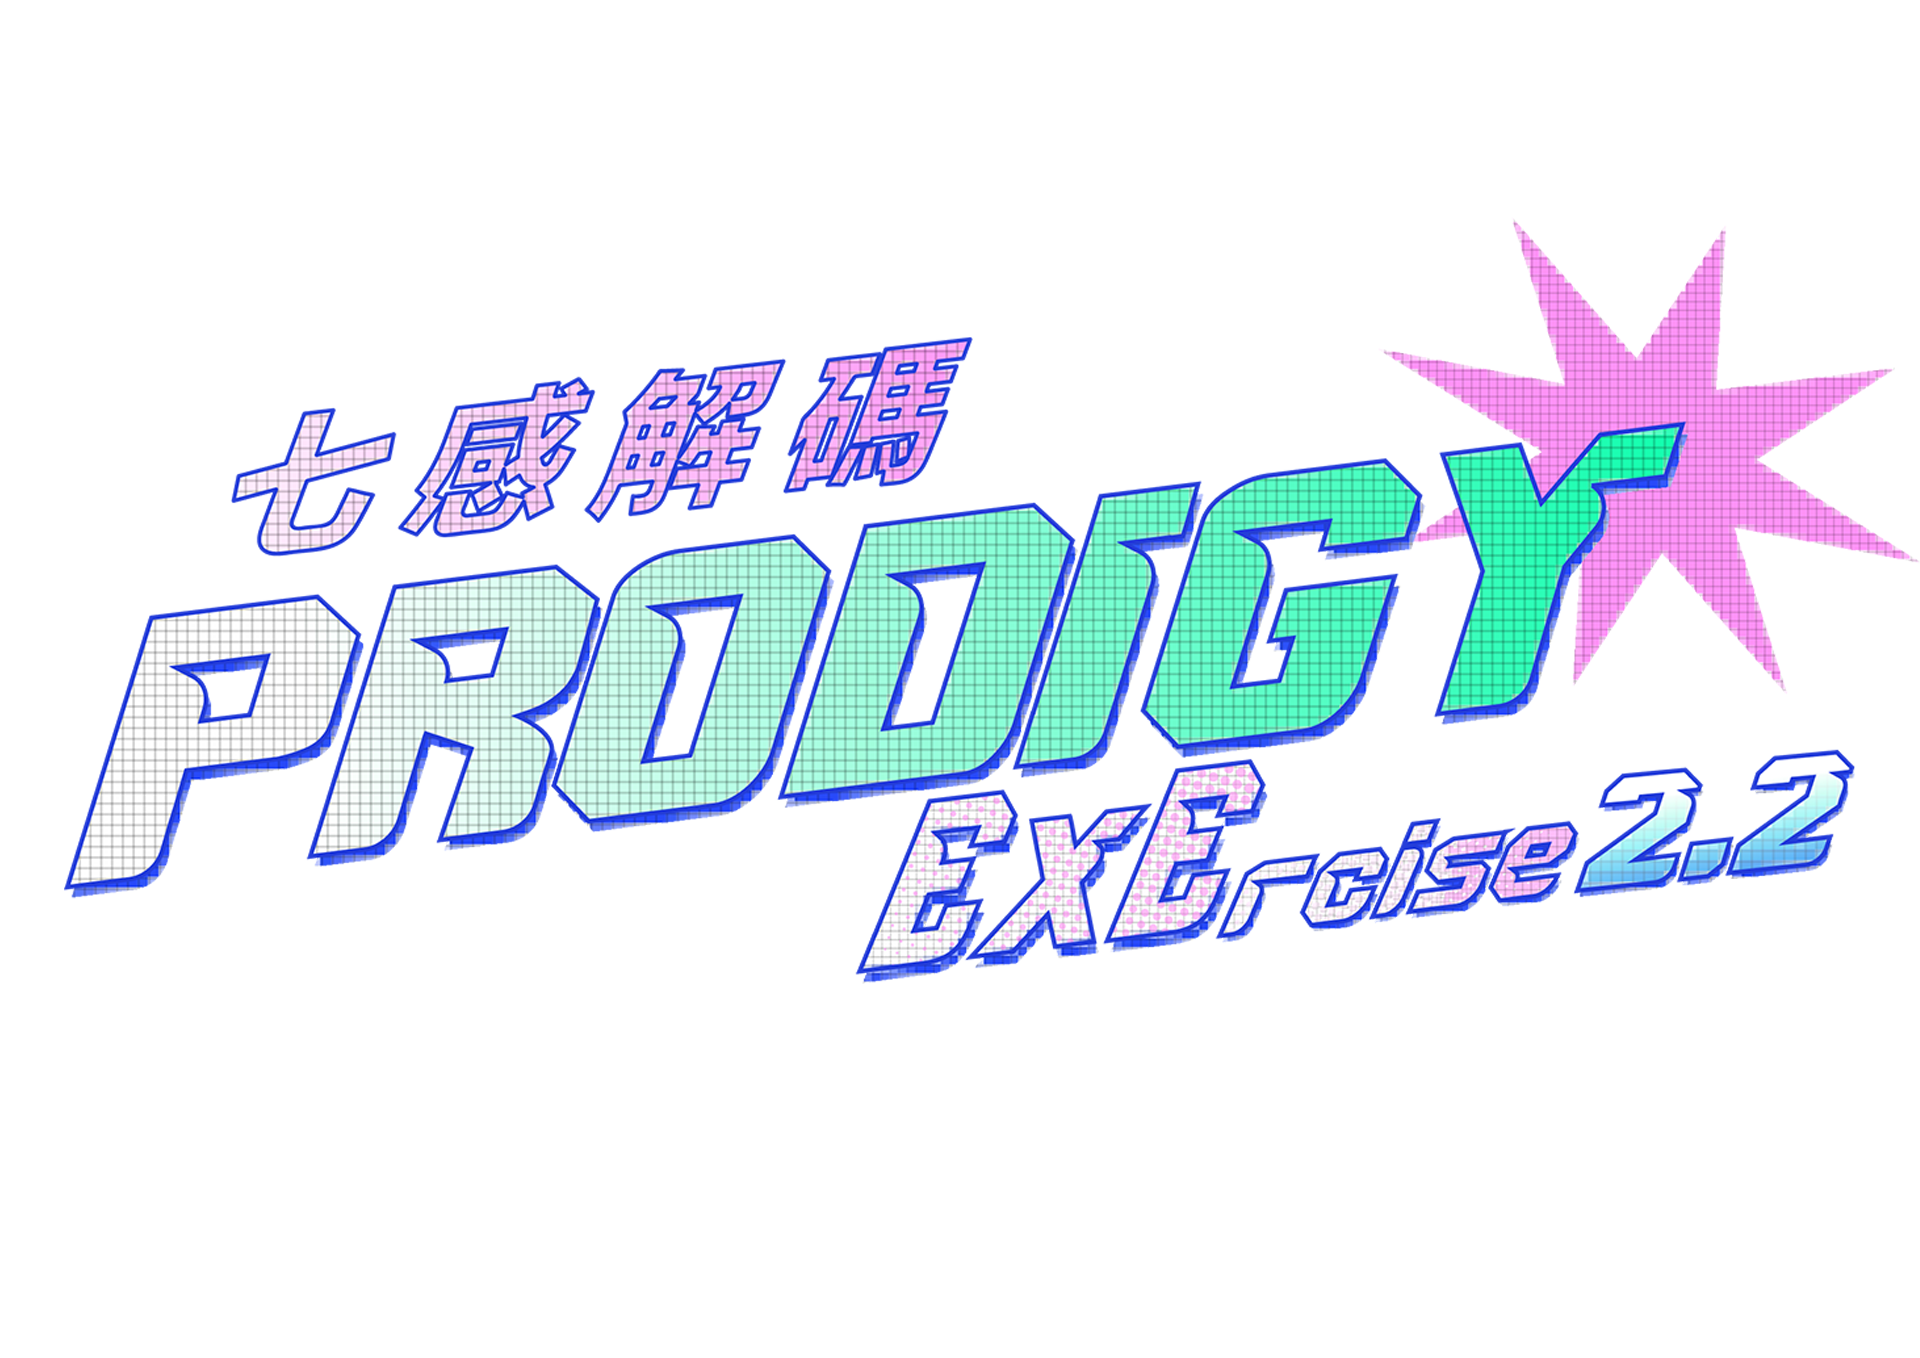
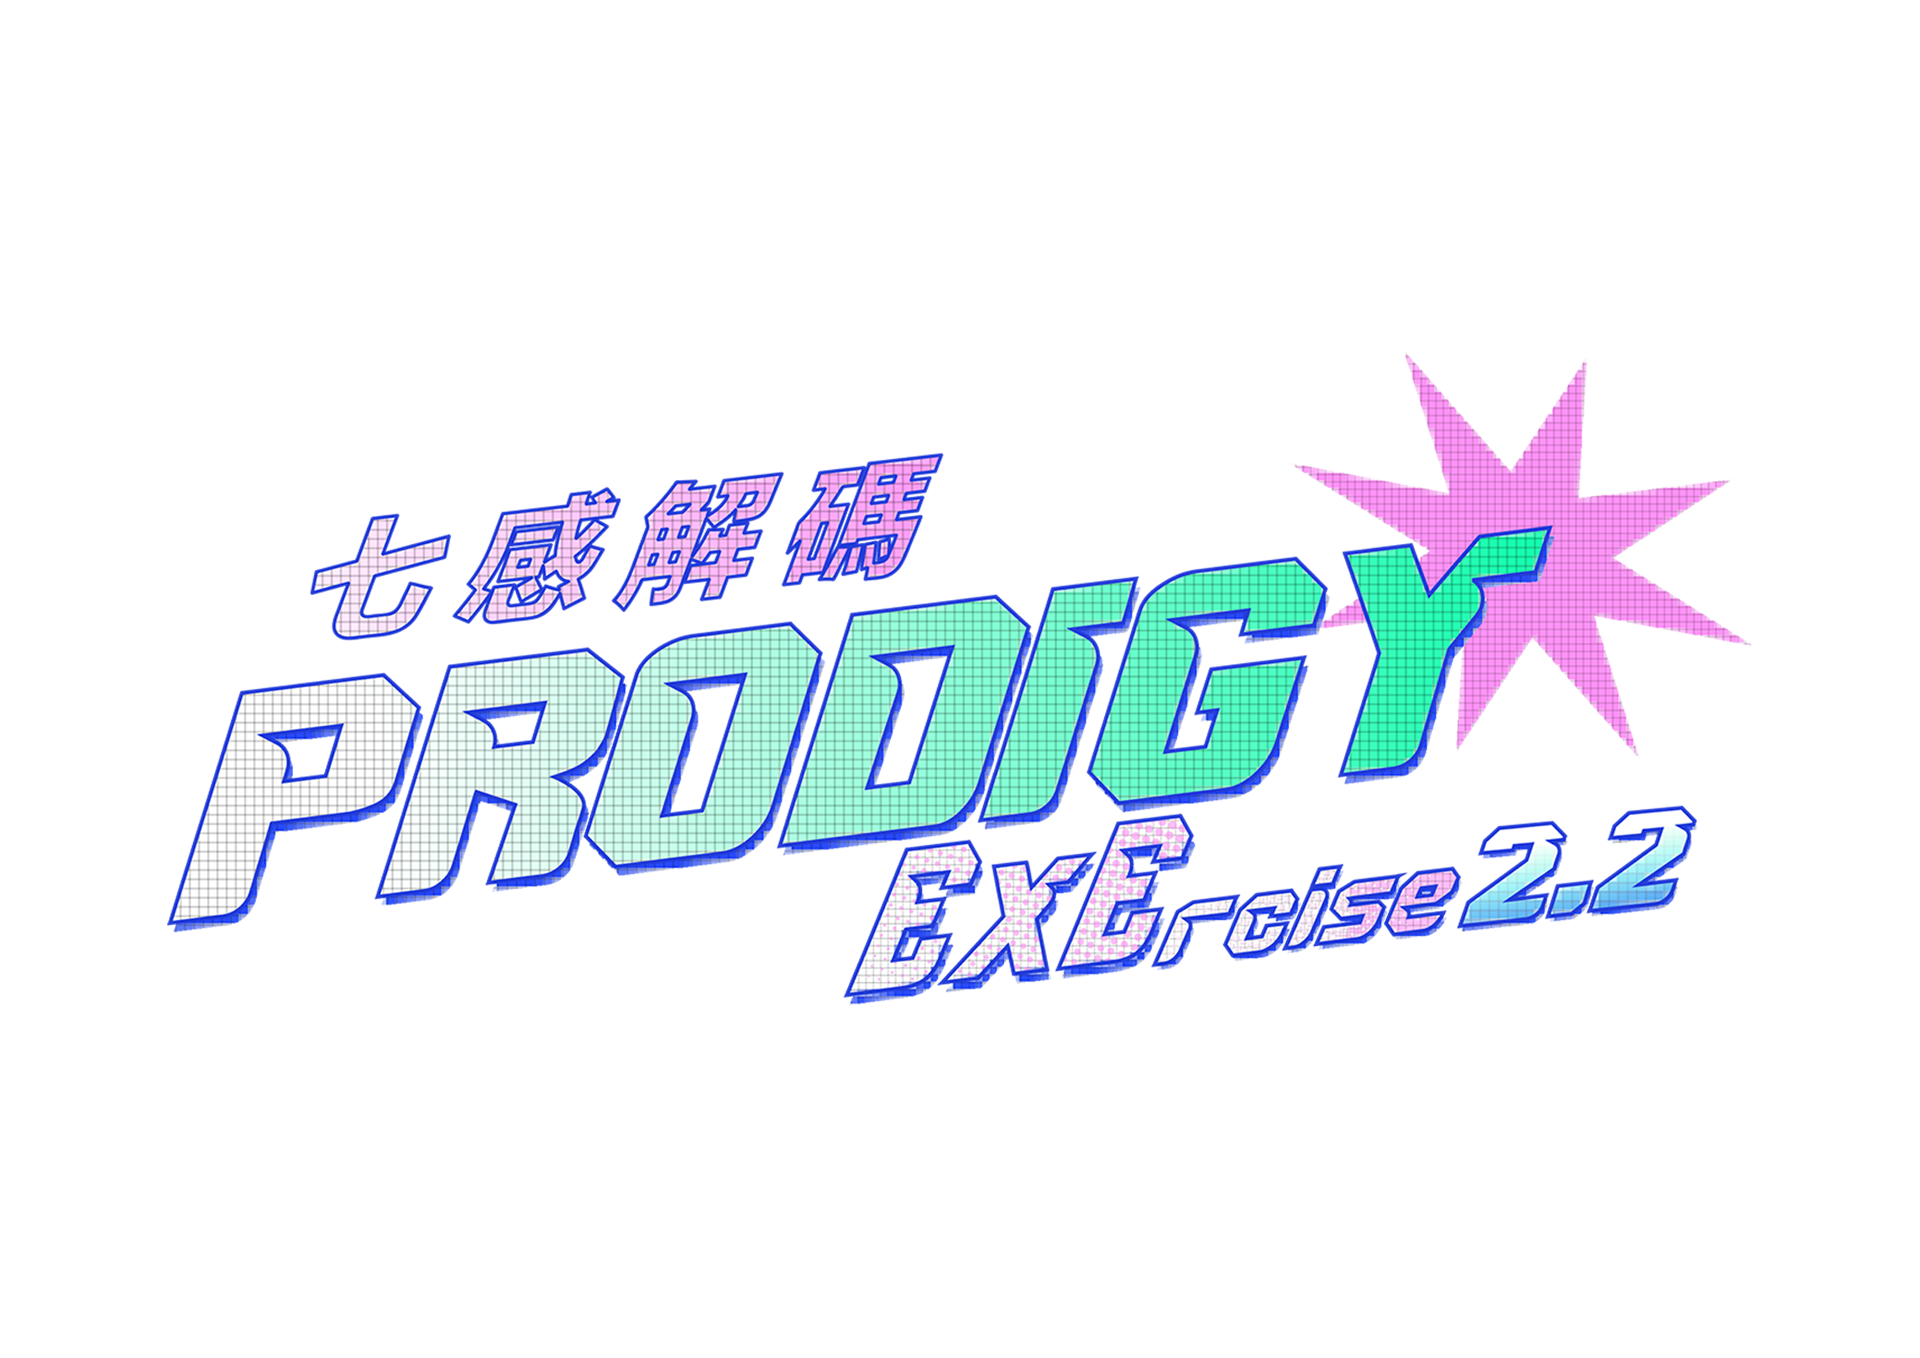
2.2新增號碼牌部分

Changed region(s): [[0.0312, 0.1546, 1.0, 0.7423]]

diff --git a/exe/exetest/main.js b/exe/exetest/main.js
@@ -806,6 +806,16 @@ const translations = {
         'act_reg_4': '第四梯次報到', 'act_warm_4': '第四梯次熱身', 'act_play_4': '第四梯次體驗遊玩',
         'act_reg_5': '第五梯次報到', 'act_warm_5': '第五梯次熱身', 'act_play_5': '第五梯次體驗遊玩',
 
+        // 號碼牌與報到機制
+        'tab_ticket': '號碼牌規則',
+        'ticket_h1': '號碼牌與報到機制',
+        'ticket_sub_1': '梯次與抽取方式',
+        'ticket_desc_1': '參加者可於現場選擇合適的時段，抽取該梯次的號碼牌。每場體驗時間為 30 分鐘，為維持最佳遊玩品質，各梯次人數上限為 20 人。',
+        'ticket_sub_2': '參賽資料登記',
+        'ticket_desc_2': '取得號碼牌後，請掃描票券上的 QR Code 填寫參賽資訊，並於標示的「開始時間」準時報到。未持有該梯次號碼牌者恕不開放體驗。',
+        'ticket_sub_3': '一人一票制',
+        'ticket_desc_3': '為維護大家的權益，本賽事全面實施「一人一票」制。多人同行請務必「全員親自到場」領取號碼牌，恕不接受代領。此外，每張號碼牌的 QR Code 僅限單人登錄，重複掃描填寫多人資訊將視為無效。',
+
         // 計分方法
         'score_h1': '一、個人單項挑戰',
         'score_label_rank': '排名方式', 'score_text_rank': '比賽期間將自動登錄參賽者成績，由各項目計分方式進行排序。',
@@ -940,6 +950,16 @@ const translations = {
         'act_reg_3': 'Registration (Batch 3)', 'act_warm_3': 'Warm-up (Batch 3)', 'act_play_3': 'Gameplay (Batch 3)',
         'act_reg_4': 'Registration (Batch 4)', 'act_warm_4': 'Warm-up (Batch 4)', 'act_play_4': 'Gameplay (Batch 4)',
         'act_reg_5': 'Registration (Batch 5)', 'act_warm_5': 'Warm-up (Batch 5)', 'act_play_5': 'Gameplay (Batch 5)',
+
+        // Ticketing & Check-in System
+        'tab_ticket': 'Ticket Rules',
+        'ticket_h1': 'Ticketing & Check-in',
+        'ticket_sub_1': 'Sessions & Drawing',
+        'ticket_desc_1': 'Participants can select a suitable time slot and draw a session ticket on-site. Each experience lasts 30 minutes. To maintain the best gameplay quality, each session is limited to 20 people.',
+        'ticket_sub_2': 'Participant Registration',
+        'ticket_desc_2': 'After obtaining your ticket, please scan the QR Code on it to fill in your participant information, and arrive punctually at the indicated "Start Time". Those without a ticket for the current session will not be allowed to play.',
+        'ticket_sub_3': 'One Ticket Per Person',
+        'ticket_desc_3': 'To protect everyone\'s rights, this event strictly enforces a "one ticket per person" policy. For group attendees, all members must be physically present to draw their tickets; claiming for others is not allowed. Furthermore, each ticket\'s QR Code is valid for single-person registration only. Scanning the same code to register multiple people will be considered invalid.',
 
         // Scoring
         'score_h1': '1. Seventeen Exercises Championships',

diff --git a/exe/exetest/index.html b/exe/exetest/index.html
@@ -177,8 +177,9 @@
                     <div class="game-left-panel">
                         <div class="game-choice-box">
                             <h2 class="game-choice-title" data-i18n="detail_title">賽事細節</h2>
-                            <div id="mobile-tab-display" class="mobile-tab-display">計分方法</div>
+                            <div id="mobile-tab-display" class="mobile-tab-display">號碼牌規則</div>
                             <div class="game-tabs-list">
+                                <button class="detail-tab-btn active" data-target="detail-ticket" data-i18n="tab_ticket">號碼牌規則</button>
                                 <button class="detail-tab-btn active" data-target="detail-scoring" data-i18n="tab_scoring">計分方法</button>
                                 <button class="detail-tab-btn" data-target="detail-participants" data-i18n="tab_rules">競賽辦法</button>
                             </div>
@@ -198,7 +199,24 @@
                     </div> 
     
                     <div class="game-right-content">
-                        
+    
+                        <div id="detail-ticket" class="detail-content active">
+                            <div class="scoring-container">
+                                <div class="scoring-card">
+                                    <h3 class="scoring-title" data-i18n="ticket_h1">號碼牌與報到機制</h3>
+
+                                    <div class="scoring-subtitle" data-i18n="ticket_sub_1">梯次與抽取方式</div>
+                                    <p class="scoring-desc" data-i18n="ticket_desc_1">參加者可於現場選擇合適的時段，抽取該梯次的號碼牌。每場體驗時間為 30 分鐘，為維持最佳遊玩品質，各梯次人數上限為 20 人。</p>
+
+                                    <div class="scoring-subtitle" data-i18n="ticket_sub_2">參賽資料登記</div>
+                                    <p class="scoring-desc" data-i18n="ticket_desc_2">取得號碼牌後，請掃描票券上的 QR Code 填寫參賽資訊，並於標示的「開始時間」準時報到。未持有該梯次號碼牌者恕不開放體驗。</p>
+
+                                    <div class="scoring-subtitle" data-i18n="ticket_sub_3">一人一票制</div>
+                                    <p class="scoring-desc" data-i18n="ticket_desc_3">為維護大家的權益，本賽事全面實施「一人一票」制。多人同行請務必「全員親自到場」領取號碼牌，恕不接受代領。此外，每張號碼牌的 QR Code 僅限單人登錄，重複掃描填寫多人資訊將視為無效。</p>
+                                </div>
+                            </div>
+                        </div>
+                            
                         <div id="detail-scoring" class="detail-content active">
                             <div class="scoring-container">
                                 <div class="scoring-card">

diff --git a/exe/exetest/main.css b/exe/exetest/main.css
@@ -2675,15 +2675,19 @@ body.lock-scroll {
         flex-direction: column; 
         gap: 10px;
     }    
+    .hero-main-logo img {
+        /* 將 max-width 調小，從原本的 650px 限制到你覺得合適的數值 */
+        max-width: 390px; 
+    }
     .hero-main-logo { 
         order: 1; 
         margin-left: -40px;
-        margin-top: -60px;
-        rotate: -6deg;
+        margin-top: -40px;
+        rotate: -2deg;
     } 
     .hero-character { 
         order: 2; 
-        margin-top: -20px; 
+        margin-top: 10px; 
     } 
     /* 👇 新增或修改這段：手機版專屬的圖片控制 */
     .hero-character img {
@@ -2693,14 +2697,14 @@ body.lock-scroll {
     }
     .deco-1 { display: none; } 
     .deco-3 { 
-        top: 55%; 
-        right: -13%; 
-        width: 130px; 
+        top: 70%; 
+        right: -10%; 
+        width: 100px; 
         rotate: 25deg;
     }
     .deco-2 { 
-        bottom: 43%; 
-        left: -20%; 
+        bottom: 40%; 
+        left: -22%; 
         width: 150px; 
     }
 
